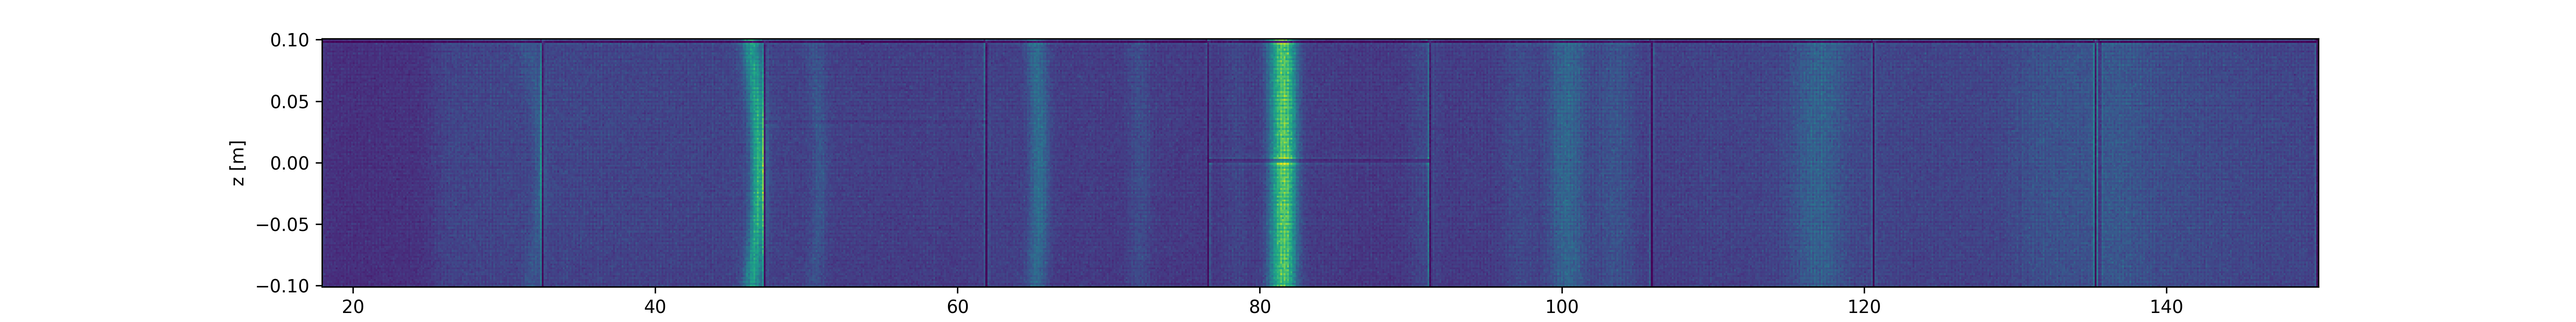
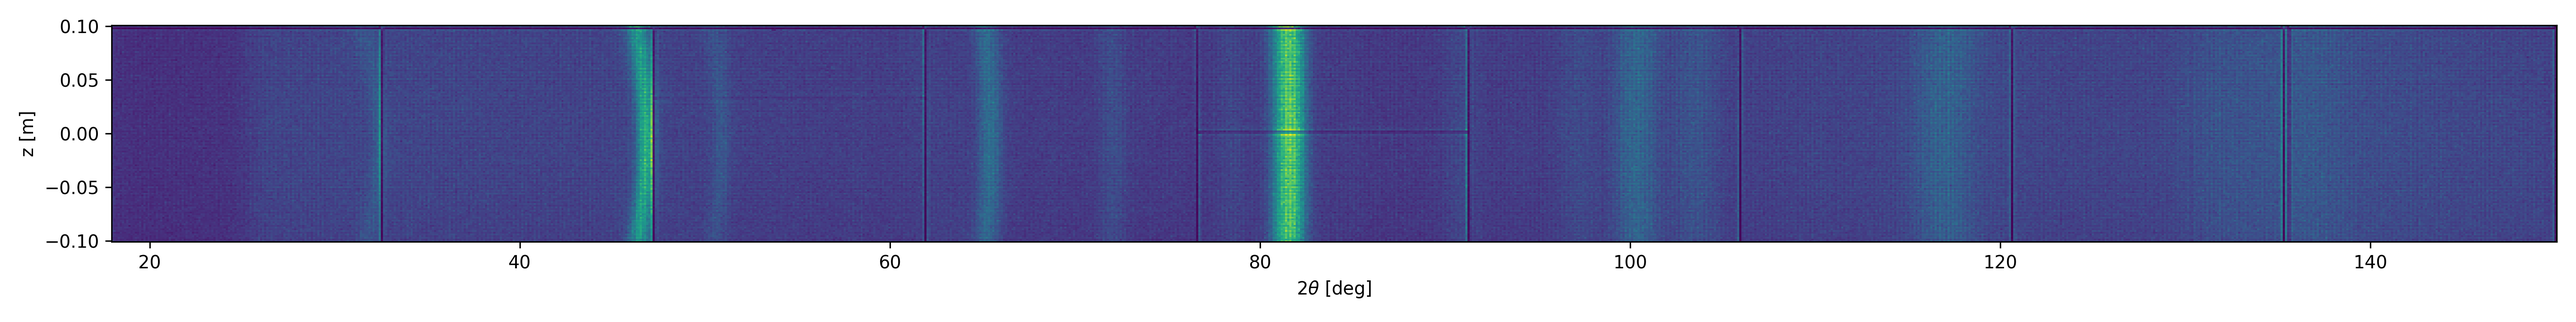
Add tight layout after size change in figure

diff --git a/Tutorials/Plot2DPowderDetector.py b/Tutorials/Plot2DPowderDetector.py
@@ -24,6 +24,7 @@ def Tester():
     
     fig = ax.get_figure()
     fig.set_size_inches(20, 2.5)
+    fig.tight_layout()
     fig.savefig(r'docs/Tutorials/Powder/Plot2DPowderDetector_new_and_better.png',format='png',dpi=300)
     
 title = 'Detector Overview Powder'

diff --git a/docs/Tutorials/Powder/2D_Detector_Plot.rst b/docs/Tutorials/Powder/2D_Detector_Plot.rst
@@ -25,6 +25,7 @@ The simplets data set on the DMC instrument is that of a powder measured with on
    
    fig = ax.get_figure()
    fig.set_size_inches(20, 2.5)
+   fig.tight_layout()
    fig.savefig('figure0.png',format='png')
    
 
